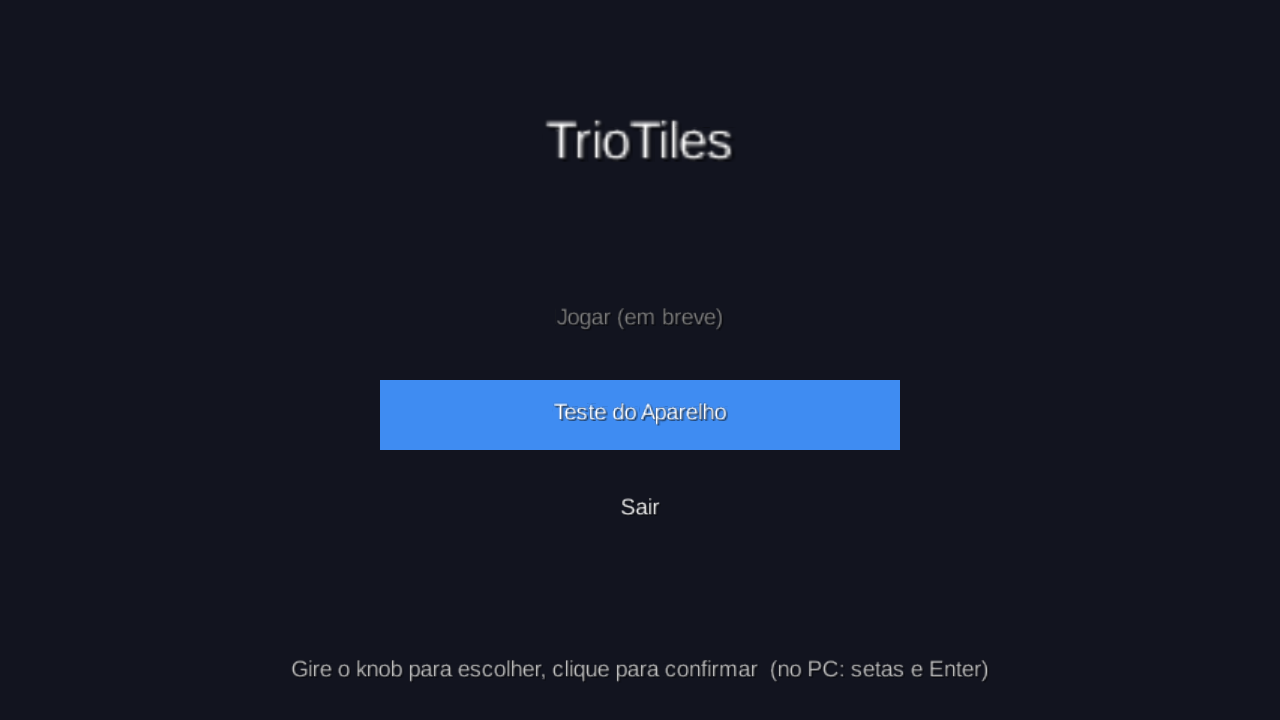
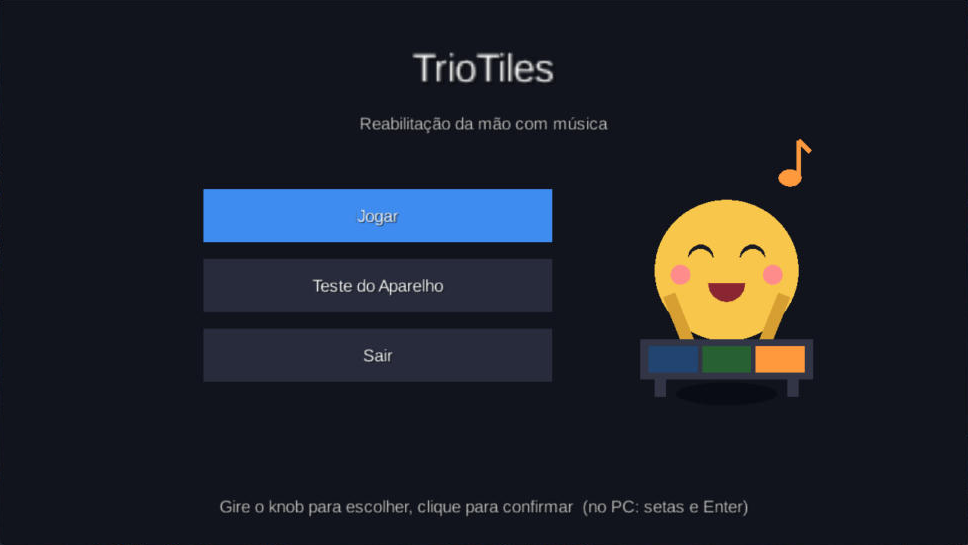
Add files via upload

diff --git a/docs/PROPOSTA.md b/docs/PROPOSTA.md
@@ -253,9 +253,12 @@ Cada sprint ≈ 1 semana, para casar com os commits semanais e a reunião com o 
 > **Observação para os testes:** na primeira partida a tendência foi "atrasa 97 ms". Parte disso pode ser atraso do monitor e do sistema, não do paciente. Se continuar aparecendo com outras pessoas, vale incluir nas Configurações (Sprint 5) um ajuste de atraso (calibração).
 
 ### Sprint 3: Menus e personagem
-- [ ] Menu principal, pausa (iniciar / pausar / reiniciar) navegando pelo knob
-- [ ] Pipo com animações básicas (parado, acerto, erro, dançando)
-- [ ] Sons de acerto/erro
+- [x] Menu principal, pausa (iniciar / pausar / reiniciar) navegando pelo knob: menu Jogar · Teste do Aparelho · Sair; clique do knob no jogo abre a pausa com Continuar · Reiniciar fase · Voltar ao menu (`OptionList`, com som ao girar e confirmar)
+- [x] Pipo com animações básicas (parado, acerto, erro, dançando): desenhado só com formas, atrás de um tecladinho de 3 teclas igual ao do paciente. Pula e toca a tecla acertada, faz "ops" (sem punir) no erro, dança a partir de 10 acertos seguidos e comemora no resultado quando a precisão passa de 70% (`Pipo` + `PipoRenderer`)
+- [x] Sons de acerto/erro: cada trilha toca uma nota (Dó, Mi, Sol, que formam um acorde) e o erro é um "bonk" suave. Os sons são sintetizados por `tools/gerar_sons.py`, sem arquivos baixados nem licença (`Sfx`)
+- **Entrega:** ✅ testada em 30/10/2026
+
+![Pausa e Pipo na Sprint 3](img/pausa-sprint3.png)
 
 ### Sprint 4: As 3 fases
 - [ ] `LevelData` com as 3 fases e dificuldade progressiva
